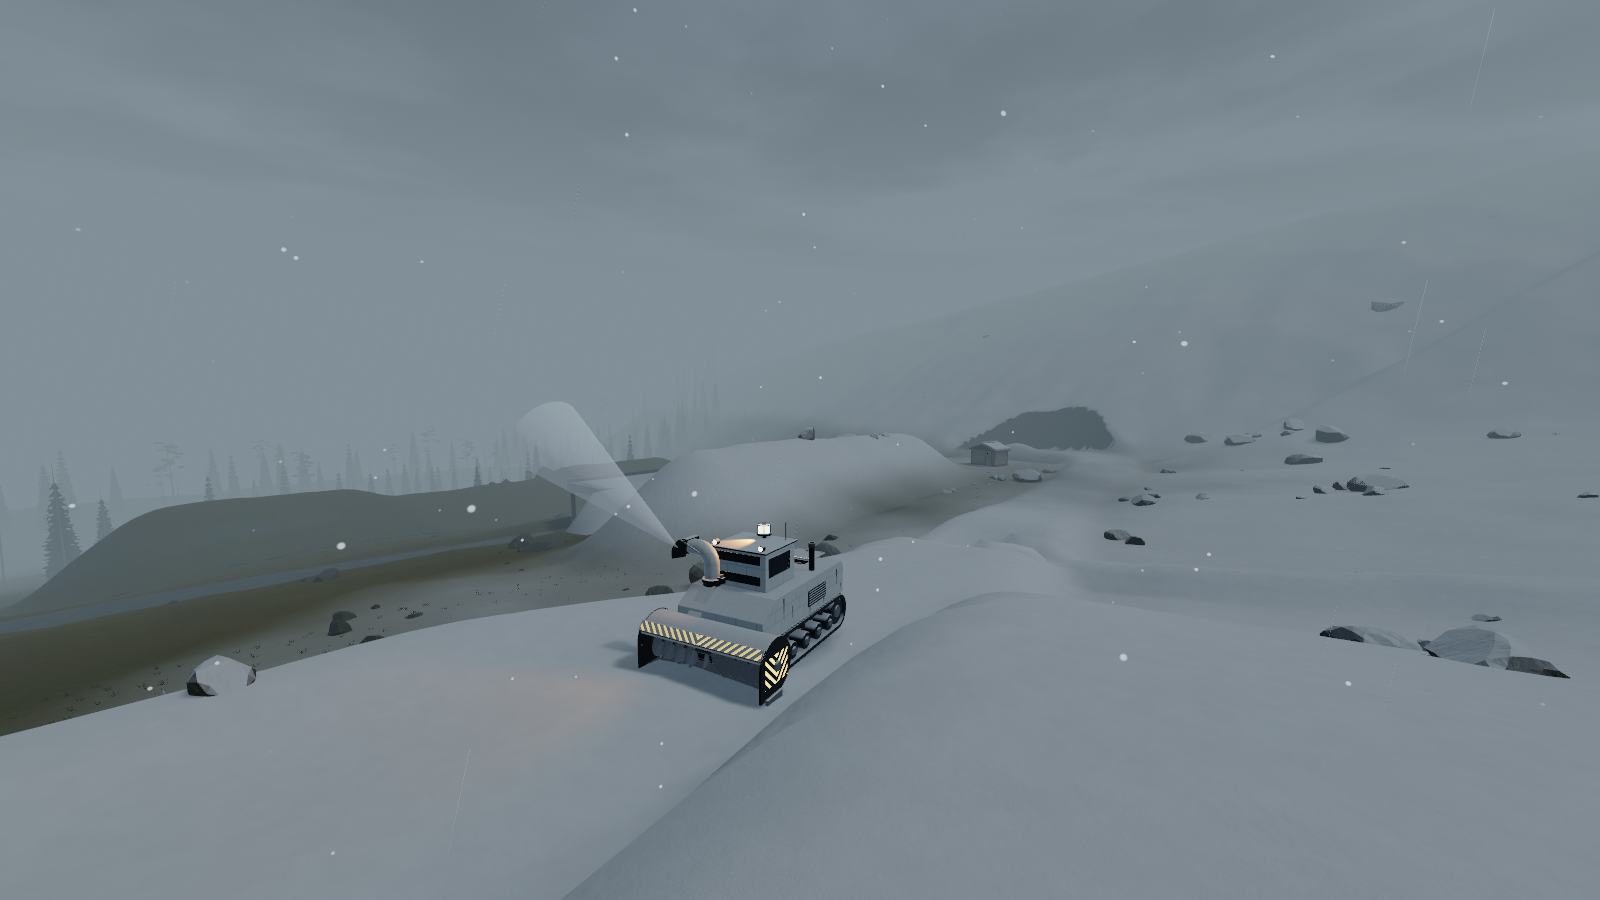
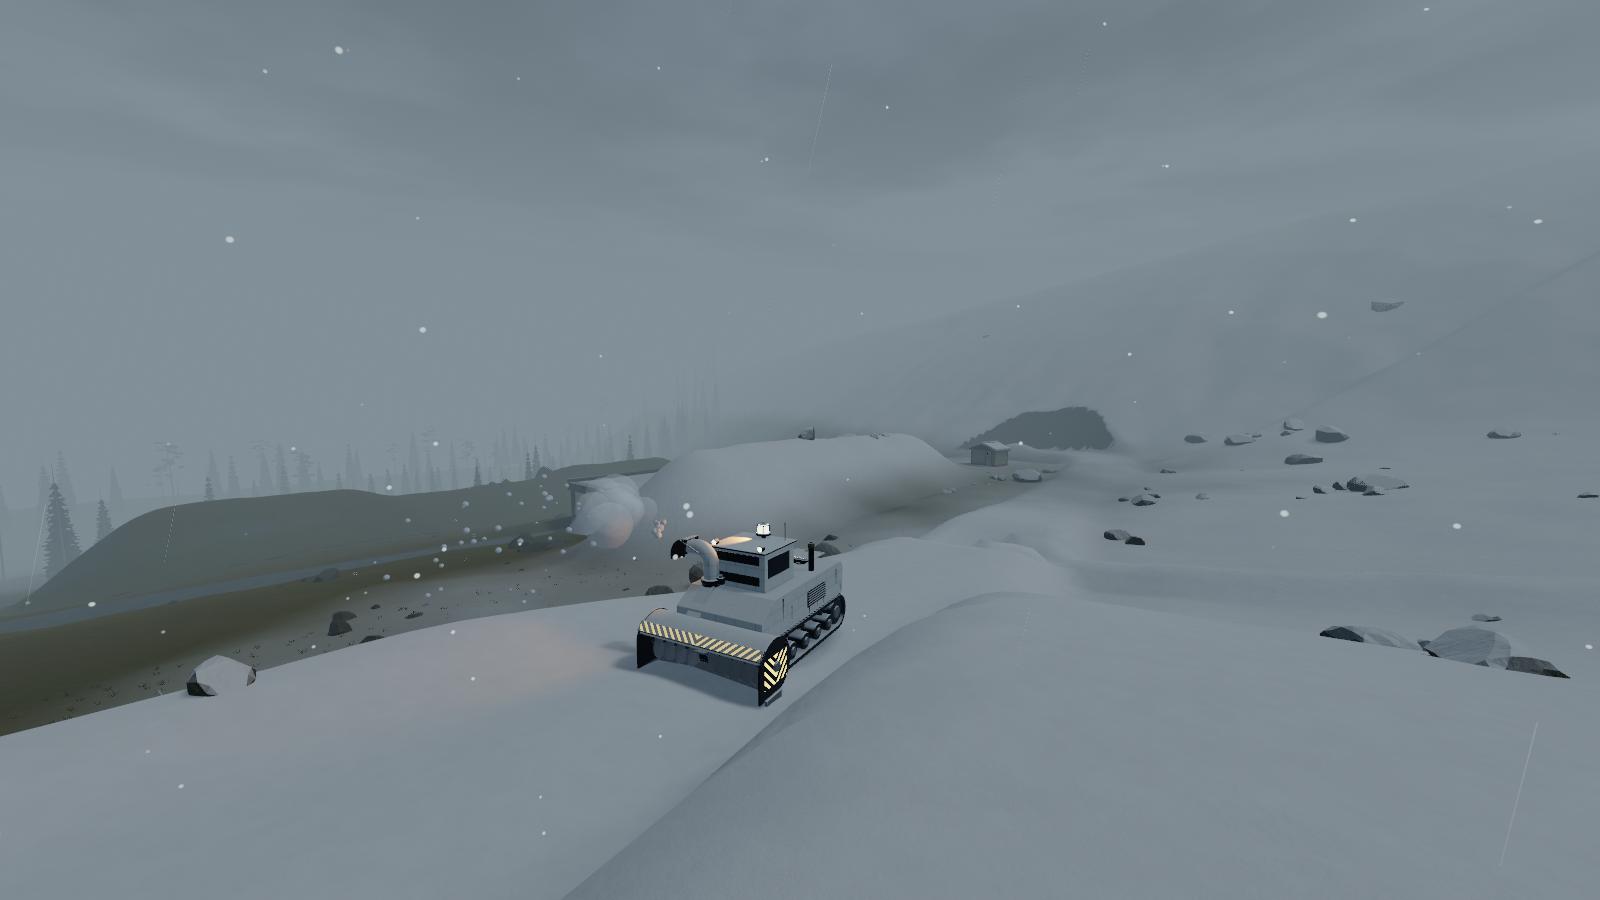
Plough: its plume is thrown snow, not a cone
While it ploughs, its chute throws a stream of snow chunks that arc out
and fall (gone when they land) and puffs of powder that slow, swell and
thin away, capped at 260 in the air. The translucent cone's flat edges
showed in a headset. docs/shots/plough/close.png re-shot.

Claude-Session: https://claude.ai/code/session_01UYS29AKspvCeepAatEb31x

diff --git a/src/robots/plough_look.rs b/src/robots/plough_look.rs
@@ -1,7 +1,8 @@
 //! How a plough looks (client only): dressed from
 //! `assets/models/robots/plough.glb` (`art/robots/plough.py`) in three
 //! LODs, each part hung at its own origin. Its auger spins and its beacon
-//! turns while it runs; ploughing, a plume of snow arcs out of its chute
+//! turns while it runs; ploughing, a stream of thrown snow (chunks and
+//! powder) arcs out of its chute and falls
 //! (the tell you see from across the valley); jammed, the auger stops and
 //! the engine hatch stands open over the cell. Its bank is laid in
 //! sections along the road's downhill side.
@@ -11,9 +12,7 @@ use bevy::light::NotShadowCaster;
 use bevy::prelude::*;
 
 use super::heavy_look::{lod_name, lod_range};
-use super::plough::{
-    AUGER, BANK_STEP, BankPiece, CHUTE_TOP, HATCH, Lanes, Plough, PloughCell, PloughHatch,
-};
+use super::plough::{AUGER, BANK_STEP, BankPiece, HATCH, Lanes, Plough, PloughCell, PloughHatch};
 use super::{PartRole, RobotPart};
 use crate::models::{ModelMaterials, ModelNode, ModelState, Models, model_nodes};
 use crate::render::materials::MaterialLibrary;
@@ -36,21 +35,19 @@ pub struct PloughLookPlugin;
 
 impl Plugin for PloughLookPlugin {
     fn build(&self, app: &mut App) {
-        app.add_systems(Update, (dress, run_parts, gallery));
+        app.add_systems(Update, (dress, run_parts, gallery, spray, fly_snow));
     }
 }
 
 #[derive(Component)]
 struct Dressed;
 
-/// Its moving pieces: the auger drum, the beacon's light, the hatch and
-/// the plume.
+/// Its moving pieces: the auger drum, the beacon's light and the hatch.
 #[derive(Component)]
 struct Moving {
     auger: Entity,
     beacon: Entity,
     hatch: Option<Entity>,
-    plume: Entity,
 }
 
 #[allow(clippy::too_many_arguments, clippy::type_complexity)]
@@ -69,8 +66,6 @@ fn dress(
     mut model_mats: ResMut<ModelMaterials>,
     mut lib: ResMut<MaterialLibrary>,
     mut materials: ResMut<Assets<StandardMaterial>>,
-    mut meshes: ResMut<Assets<Mesh>>,
-    mut plume: Local<Option<(Handle<Mesh>, Handle<StandardMaterial>)>>,
 ) {
     if ploughs.is_empty() && banks.is_empty() {
         return;
@@ -92,21 +87,6 @@ fn dress(
             return;
         }
     };
-    let (plume_mesh, plume_mat) = plume
-        .get_or_insert_with(|| {
-            (
-                meshes.add(Cone::new(0.9, 5.0)),
-                materials.add(StandardMaterial {
-                    base_color: Color::srgba(0.95, 0.97, 1.0, 0.45),
-                    emissive: LinearRgba::rgb(0.25, 0.25, 0.28),
-                    alpha_mode: AlphaMode::Blend,
-                    unlit: false,
-                    perceptual_roughness: 1.0,
-                    ..default()
-                }),
-            )
-        })
-        .clone();
     let mut hang = |commands: &mut Commands,
                     materials: &mut Assets<StandardMaterial>,
                     parent: Entity,
@@ -252,25 +232,11 @@ fn dress(
                 ChildOf(e),
             ))
             .id();
-        // The plume: a cone of thrown snow from the chute's hood, out and
-        // up to the downhill side.
-        let plume = commands
-            .spawn((
-                Mesh3d(plume_mesh.clone()),
-                MeshMaterial3d(plume_mat.clone()),
-                Transform::from_translation(CHUTE_TOP + Vec3::new(2.0, 0.8, 0.0))
-                    .with_rotation(Quat::from_rotation_z(std::f32::consts::FRAC_PI_2 + 0.5)),
-                Visibility::Hidden,
-                NotShadowCaster,
-                ChildOf(e),
-            ))
-            .id();
         commands.entity(e).insert((
             Moving {
                 auger,
                 beacon,
                 hatch,
-                plume,
             },
             Dressed,
         ));
@@ -295,7 +261,6 @@ fn run_parts(
     ploughs: Query<(&Plough, &Moving, &super::Robot)>,
     mut transforms: Query<&mut Transform>,
     mut lights: Query<&mut SpotLight>,
-    mut vis: Query<&mut Visibility>,
     time: Res<Time>,
 ) {
     let dt = time.delta_secs();
@@ -312,20 +277,6 @@ fn run_parts(
         }
         if let Ok(mut l) = lights.get_mut(m.beacon) {
             l.intensity = if robot.wrecked { 0.0 } else { 400_000.0 };
-        }
-        if let Ok(mut v) = vis.get_mut(m.plume) {
-            let want = if p.ploughing && running {
-                Visibility::Inherited
-            } else {
-                Visibility::Hidden
-            };
-            if *v != want {
-                *v = want;
-            }
-        }
-        if let Ok(mut pt) = transforms.get_mut(m.plume) {
-            let k = 1.0 + 0.12 * (t * 7.0).sin();
-            pt.scale = Vec3::new(k, 1.0, k);
         }
         if let Some(h) = m.hatch {
             if let Ok(mut ht) = transforms.get_mut(h) {
@@ -461,5 +412,174 @@ fn gallery(
                 condition: 1.0,
             },
         );
+    }
+}
+
+/// Thrown snow: a chunk (falls fast, gone when it lands) or powder (drifts,
+/// swells and thins out).
+#[derive(Component)]
+struct Flake {
+    vel: Vec3,
+    life: f32,
+    max: f32,
+    powder: bool,
+    size: f32,
+}
+
+/// The most thrown snow in the air at once, all ploughs together.
+const MAX_FLAKES: usize = 260;
+/// Chunks and puffs of powder a second out of a chute.
+const CHUNKS: f32 = 55.0;
+const POWDER: f32 = 9.0;
+/// Where the snow leaves the chute's hood, and how fast (local: out to its
+/// +X side and up).
+const HOOD: Vec3 = Vec3::new(1.9, 2.95, -1.4);
+const THROW: Vec3 = Vec3::new(7.0, 4.0, 0.0);
+
+/// A tiny LCG, for scatter.
+#[derive(Default)]
+struct Dice(u32);
+
+impl Dice {
+    fn f(&mut self) -> f32 {
+        self.0 = self.0.wrapping_mul(1_664_525).wrapping_add(1_013_904_223);
+        (self.0 >> 8) as f32 / (1u32 << 24) as f32
+    }
+    fn signed(&mut self) -> Vec3 {
+        Vec3::new(self.f() - 0.5, self.f() - 0.5, self.f() - 0.5) * 2.0
+    }
+}
+
+/// While it ploughs, snow out of the chute: a stream of chunks and puffs
+/// of powder, thrown out to the side.
+#[allow(clippy::type_complexity)]
+fn spray(
+    mut commands: Commands,
+    ploughs: Query<(&Plough, &GlobalTransform, &super::Robot), With<Moving>>,
+    flakes: Query<(), With<Flake>>,
+    mut meshes: ResMut<Assets<Mesh>>,
+    mut materials: ResMut<Assets<StandardMaterial>>,
+    mut made: Local<Option<[(Handle<Mesh>, Handle<StandardMaterial>); 2]>>,
+    mut owed: Local<(f32, f32)>,
+    mut dice: Local<Dice>,
+    time: Res<Time>,
+) {
+    let dt = time.delta_secs();
+    let mut n = flakes.iter().len();
+    let [chunk, powder] = made
+        .get_or_insert_with(|| {
+            [
+                (
+                    meshes.add(Sphere::new(0.05).mesh().ico(1).unwrap()),
+                    materials.add(StandardMaterial {
+                        base_color: Color::srgb(0.93, 0.95, 0.99),
+                        perceptual_roughness: 0.9,
+                        ..default()
+                    }),
+                ),
+                (
+                    meshes.add(Sphere::new(0.5).mesh().ico(2).unwrap()),
+                    materials.add(StandardMaterial {
+                        base_color: Color::srgba(0.95, 0.97, 1.0, 0.28),
+                        emissive: LinearRgba::rgb(0.12, 0.12, 0.14),
+                        alpha_mode: AlphaMode::Blend,
+                        perceptual_roughness: 1.0,
+                        ..default()
+                    }),
+                ),
+            ]
+        })
+        .clone();
+    for (p, gt, robot) in &ploughs {
+        if !p.ploughing || p.jammed > 0.0 || robot.wrecked {
+            continue;
+        }
+        let rot = gt.rotation();
+        let at = gt.transform_point(HOOD);
+        owed.0 += CHUNKS * dt;
+        owed.1 += POWDER * dt;
+        while owed.0 >= 1.0 {
+            owed.0 -= 1.0;
+            if n >= MAX_FLAKES {
+                continue;
+            }
+            n += 1;
+            let vel = rot * (THROW * (0.75 + 0.5 * dice.f()) + dice.signed() * 1.2);
+            let size = 0.6 + dice.f() * 1.2;
+            commands.spawn((
+                Flake {
+                    vel,
+                    life: 2.5,
+                    max: 2.5,
+                    powder: false,
+                    size,
+                },
+                Mesh3d(chunk.0.clone()),
+                MeshMaterial3d(chunk.1.clone()),
+                Transform::from_translation(at + dice.signed() * 0.15)
+                    .with_scale(Vec3::splat(size)),
+                NotShadowCaster,
+            ));
+        }
+        while owed.1 >= 1.0 {
+            owed.1 -= 1.0;
+            if n >= MAX_FLAKES {
+                continue;
+            }
+            n += 1;
+            let vel = rot * (THROW * (0.5 + 0.3 * dice.f()) + dice.signed() * 0.8);
+            let max = 1.4 + dice.f() * 0.8;
+            commands.spawn((
+                Flake {
+                    vel,
+                    life: max,
+                    max,
+                    powder: true,
+                    size: 0.5 + dice.f() * 0.4,
+                },
+                Mesh3d(powder.0.clone()),
+                MeshMaterial3d(powder.1.clone()),
+                Transform::from_translation(at).with_scale(Vec3::splat(0.2)),
+                NotShadowCaster,
+            ));
+        }
+    }
+    if ploughs.is_empty() {
+        *owed = (0.0, 0.0);
+    }
+}
+
+/// Thrown snow in the air: chunks fall and are gone when they land;
+/// powder slows in the air, swells and thins out.
+fn fly_snow(
+    mut commands: Commands,
+    mut flakes: Query<(Entity, &mut Flake, &mut Transform)>,
+    zone: Option<Res<crate::world::Zone>>,
+    time: Res<Time>,
+) {
+    let dt = time.delta_secs();
+    for (e, mut f, mut t) in &mut flakes {
+        f.life -= dt;
+        if f.powder {
+            let drag = (1.0 - 1.6 * dt).max(0.0);
+            f.vel = f.vel * drag - Vec3::Y * 1.2 * dt;
+        } else {
+            f.vel -= Vec3::Y * 9.81 * dt;
+        }
+        t.translation += f.vel * dt;
+        let landed = !f.powder
+            && zone
+                .as_ref()
+                .is_some_and(|z| t.translation.y < z.ground(t.translation.x, t.translation.z));
+        if f.life <= 0.0 || landed {
+            commands.entity(e).despawn();
+            continue;
+        }
+        if f.powder {
+            // Swells as it spreads, and thins away at the end.
+            let k = 1.0 - f.life / f.max;
+            let fade = (f.life / f.max).min(0.35) / 0.35;
+            t.scale = Vec3::splat(f.size * (0.4 + 2.2 * k) * fade.max(0.05));
+        }
     }
 }
